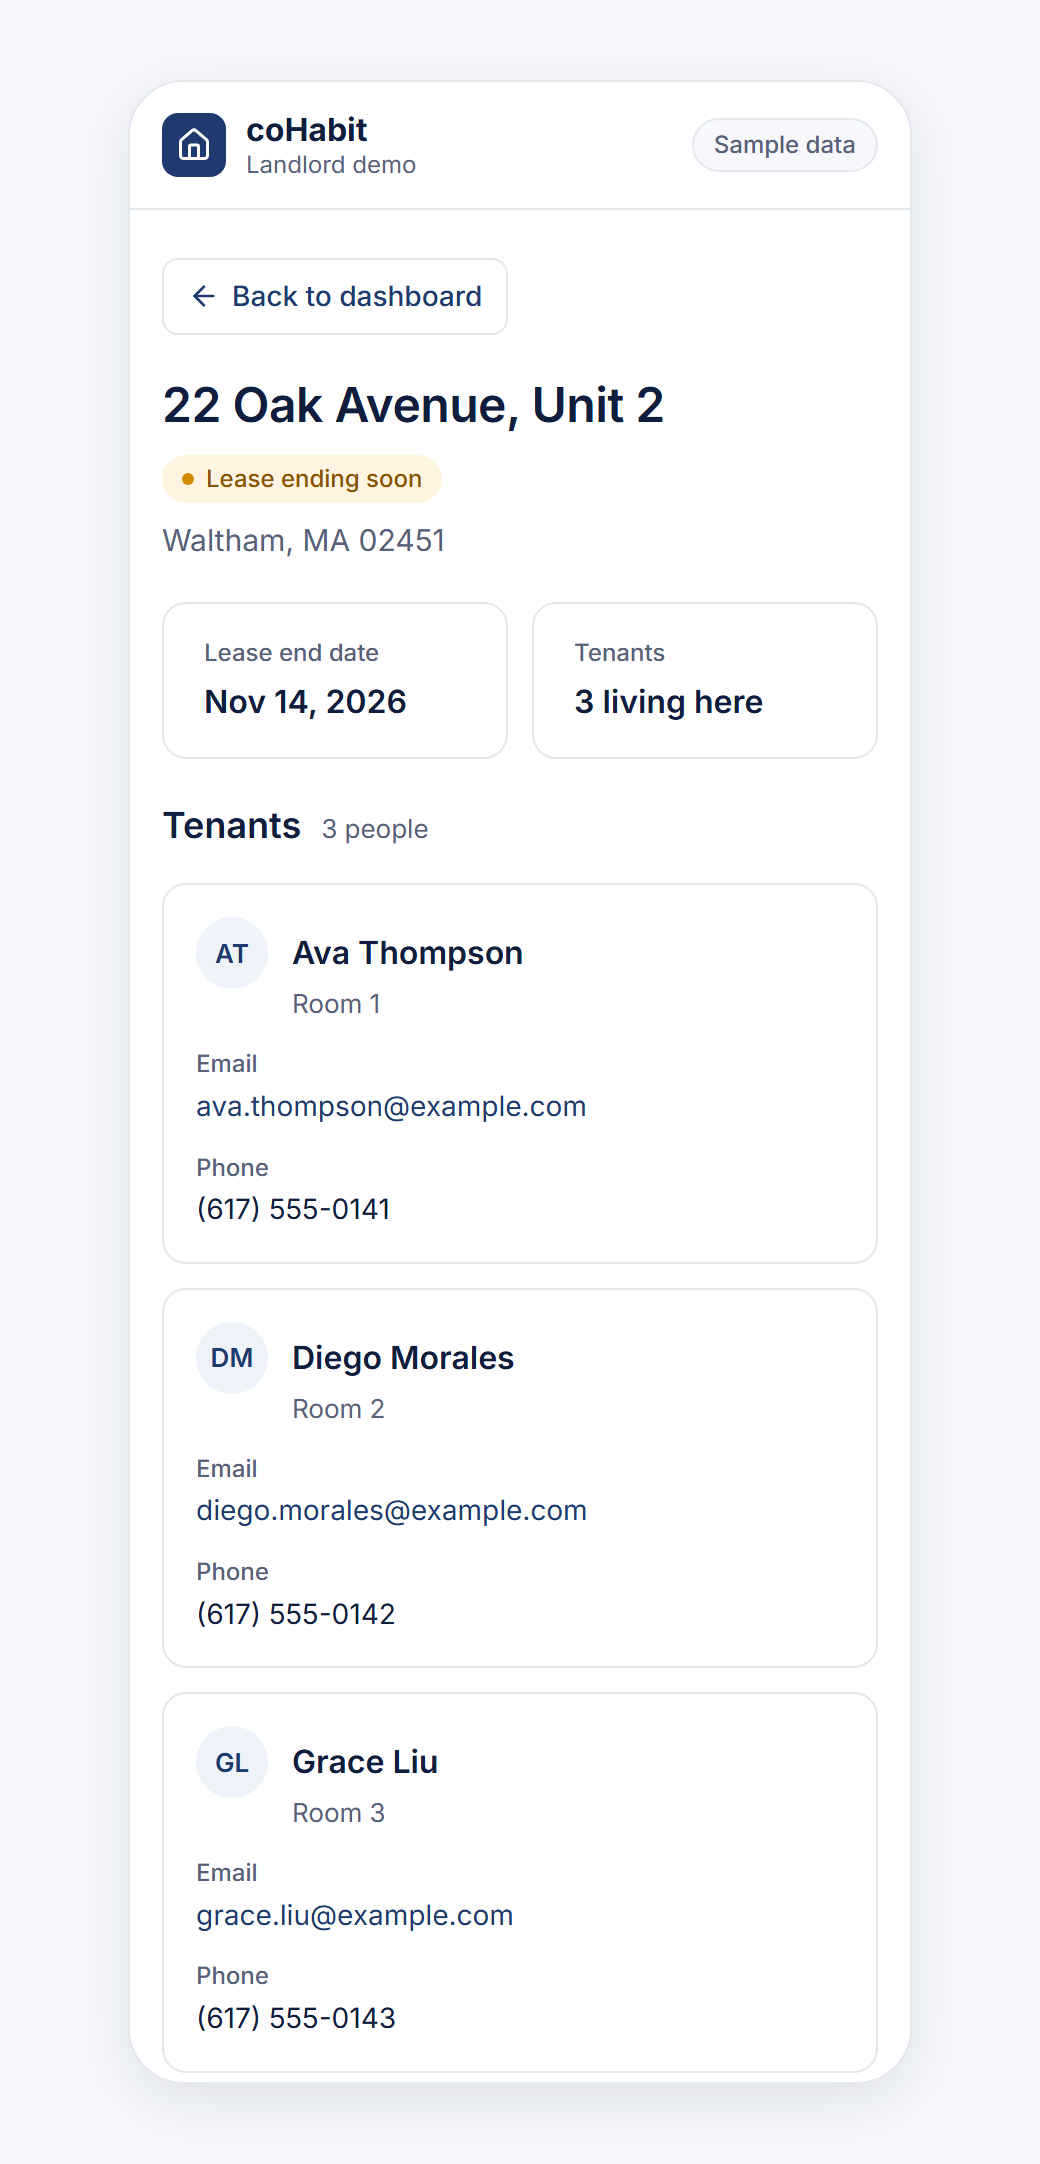
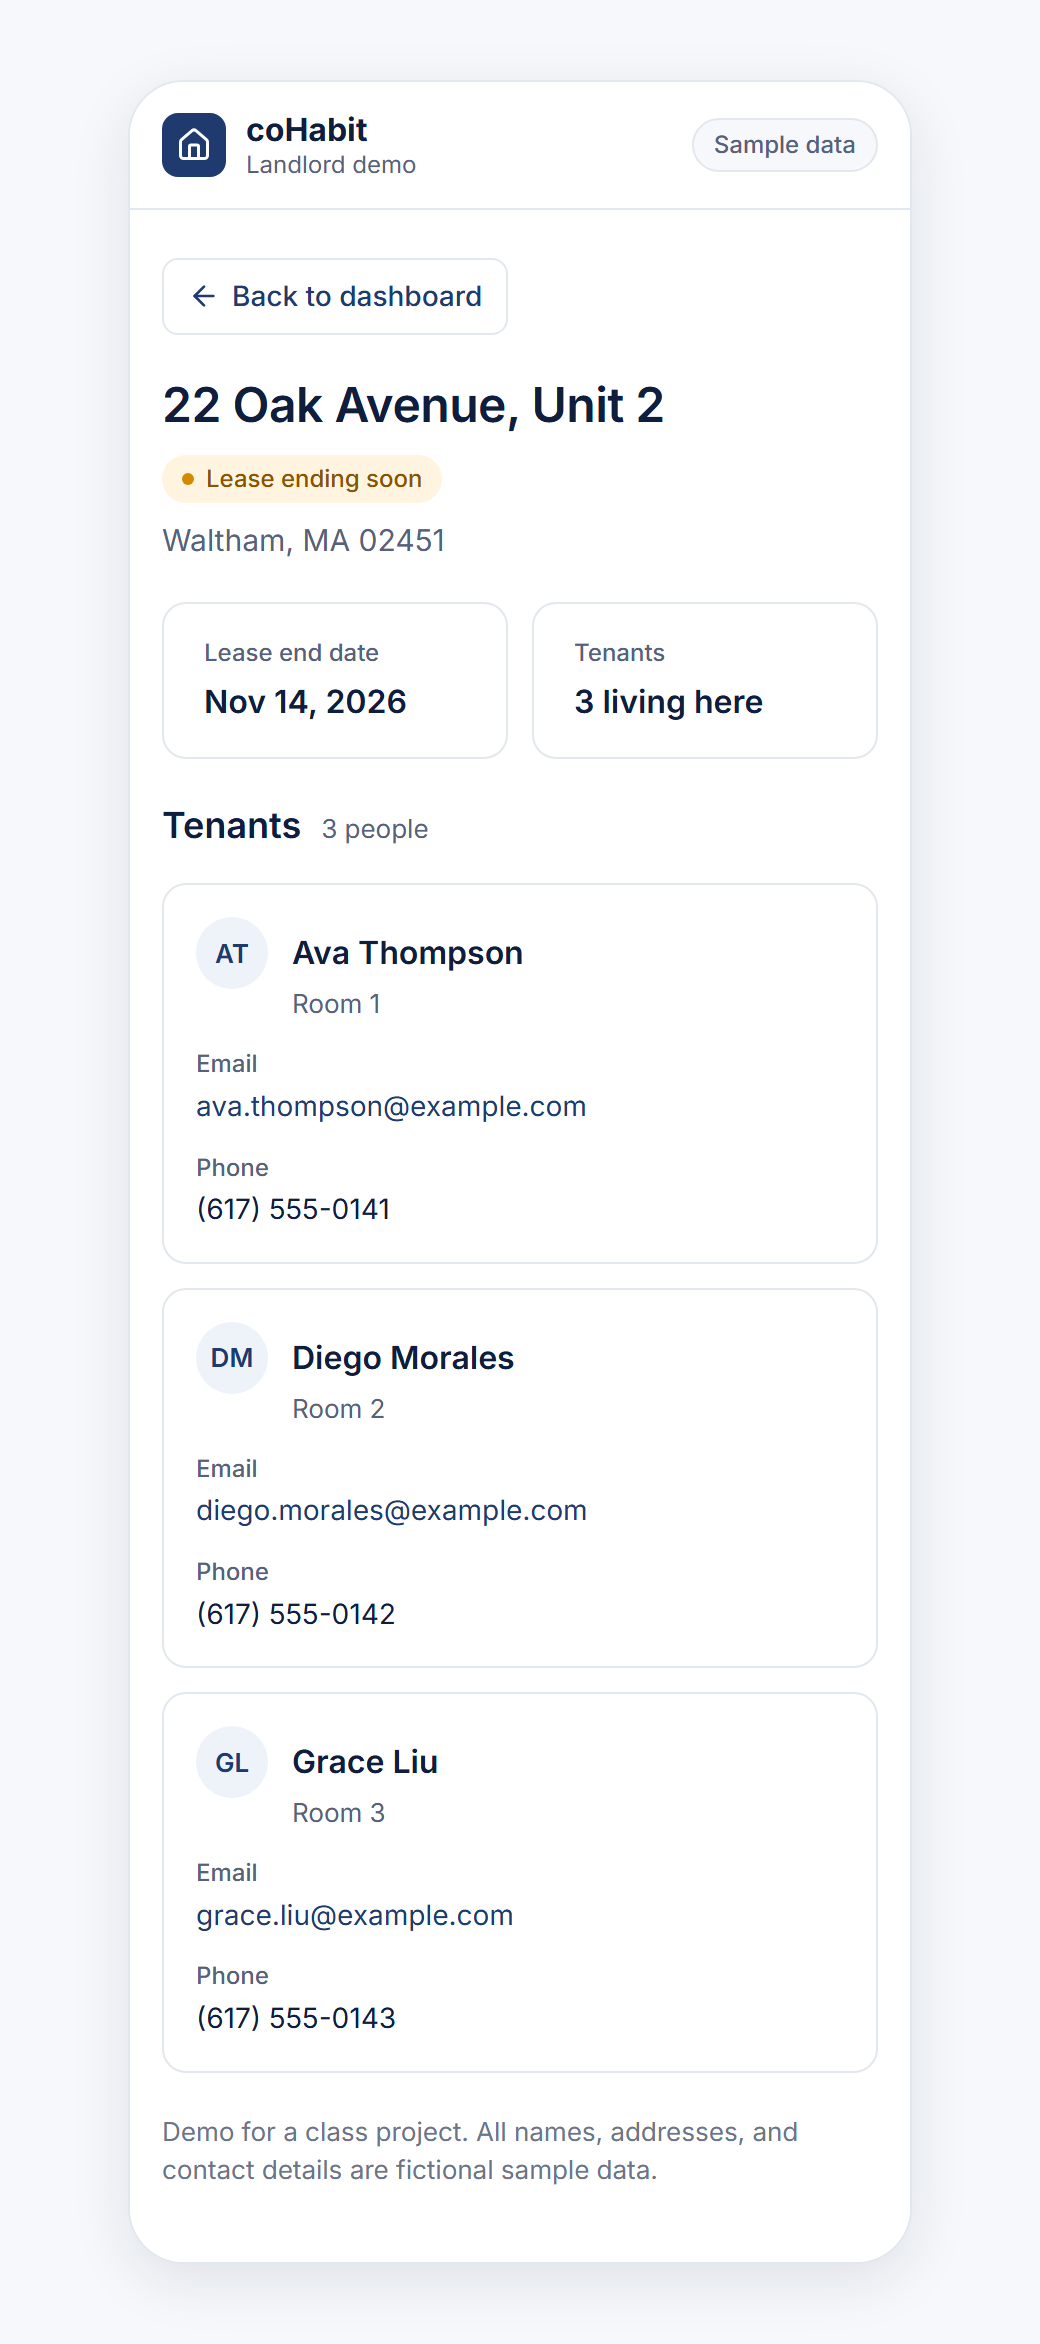
README: add phone screenshot of the dashboard, show both phone views side by side

diff --git a/README.md b/README.md
@@ -7,9 +7,11 @@
 [![Property and Tenants page for 22 Oak Avenue, Unit 2, showing the lease end date and a table of three fictional tenants with rooms, emails and phone numbers](docs/property.png)](https://cohabit-landlord-demo.dolgorsureng.workers.dev/properties/22-oak-avenue-unit-2)
 
 <p align="center">
-  <img src="docs/phone.png" width="320" alt="The same property page on a phone: the tenant table becomes one card per tenant with name, room, email and phone" />
+  <img src="docs/phone-dashboard.png" width="300" alt="The dashboard on a phone: the three property cards stack in one column" />
+  &nbsp;&nbsp;
+  <img src="docs/phone.png" width="300" alt="The property page on a phone: the tenant table becomes one card per tenant with name, room, email and phone" />
   <br />
-  <em>On a phone, the tenant table becomes one card per tenant.</em>
+  <em>On a phone, the property cards stack and the tenant table becomes one card per tenant.</em>
 </p>
 
 A two-page demo for a class project. **All names, addresses and contact details are fictional.**
